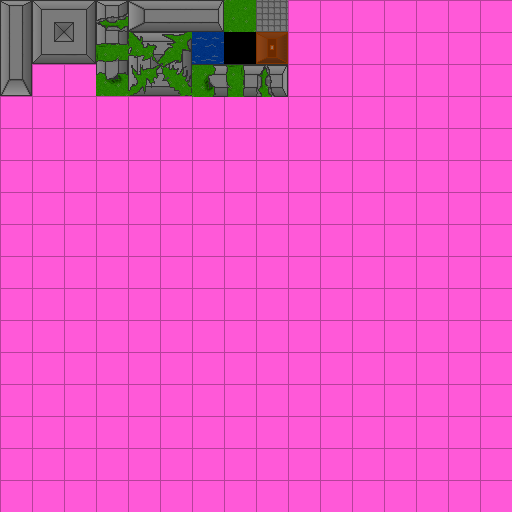
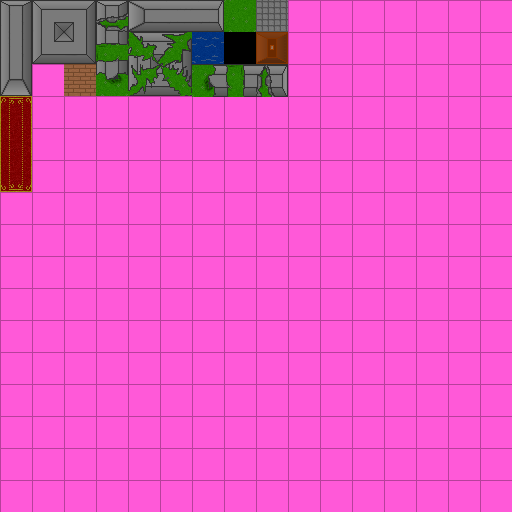
Added a few more tiles

Changed region(s): [[0.0, 0.1875, 0.0625, 0.375], [0.125, 0.125, 0.1875, 0.1875]]

diff --git a/game/screen/ScreenMapEditor.java b/game/screen/ScreenMapEditor.java
@@ -76,24 +76,19 @@ public class ScreenMapEditor extends Screen {
 
 		for (int x = 0; x < Game.WIDTH / 32; x++) {
 			for (int y = 0; y < (Game.HEIGHT - 64) / 32; y++) {
-				System.out.println("[MAPEDITOR] INIT set tile ("+x+","+y+") to 0");
 				tiles = Map.setTileAt(tiles, x, y, 0);
 			}
 		}
-		System.out.println("[MAPEDITOR] INIT registering tools.");
 		toolRegistry.add(new ToolPencil("Pencil", 1));
 		toolRegistry.add(new ToolReplace("Replacer", 0));
 		toolRegistry.add(new ToolBox("Rectangle", 6));
-		System.out.println("[MAPEDITOR] INIT registering entities.");
 		entityRegistry.add(new EntityBox());
 		entityRegistry.add(new EntityAmmo());
 		entityRegistry.add(new EntityExplosion());
 		entityRegistry.add(new EntitySign());
 		entityRegistry.add(new Player());
-		System.out.println("[MAPEDITOR] INIT registering triggers.");
 		triggerRegistry.add(new TriggerPlate());
 
-		System.out.println("[MAPEDITOR] INIT adding buttons.");
 		addButton("selectTile", new Rectangle(10, 520, 64, 64));
 		addButton("selectTool", new Rectangle(104, 520, 64, 64));
 		addButton("selectEntity", new Rectangle(194, 520, 64, 64));
@@ -106,12 +101,10 @@ public class ScreenMapEditor extends Screen {
 		addButton("save", new Rectangle(760, 515, 32, 32));
 		addButton("open", new Rectangle(760, 547, 32, 32));
 
-		System.out.println("[MAPEDITOR] INIT setting defaults.");
 		currentTool = toolRegistry.get(0);
 		currentTile = Tile.tiles[1];
 		currentEntity = entityRegistry.get(0);
 		currentTrigger = triggerRegistry.get(0);
-		System.out.println("[MAPEDITOR] INIT finished with no error.");
 
 	}
 
@@ -609,7 +602,7 @@ public class ScreenMapEditor extends Screen {
 		if (fileChooser.showOpenDialog(new JFrame("Open")) == JFileChooser.APPROVE_OPTION) {
 			File file = fileChooser.getSelectedFile();
 			Map loadedMap = FileSaver.loadMapFile(file.getAbsolutePath());
-			
+			this.tiles = loadedMap.tiles;
 			try {
 				this.entities = FileSaver.serialToEntity(loadedMap.entities,
 						game);

diff --git a/game/Game.java b/game/Game.java
@@ -47,7 +47,7 @@ public class Game extends Canvas implements KeyListener, MouseListener,
 
 	public SpriteSheet sheet, sheetExplosions, sheetTiles, sheetEntities,
 			sheetUI, sheetTriggers;
-	public BufferedImage loadingScreen, winScreen;
+	public BufferedImage loadingScreen, winScreen, logo;
 	public Font font;
 	public Graphics2D g;
 	public Options settings;
@@ -251,6 +251,16 @@ public class Game extends Canvas implements KeyListener, MouseListener,
 			e1.printStackTrace();
 			throw new RuntimeException("Unable to load win.png");
 		}
+		
+		try {
+			logo = ImageIO.read(Game.class
+					.getResource("/res/logo.png"));
+		} catch (IOException e1) {
+			log("Unable to load logo");
+			e1.printStackTrace();
+			throw new RuntimeException("Unable to load logo.png");
+		}
+		
 		
 		try {
 			font = new Font(ImageIO.read(Game.class

diff --git a/game/tile/Tile.java b/game/tile/Tile.java
@@ -26,7 +26,11 @@ public class Tile implements Serializable {
 			new TileRubble(TileRubble.RUBBLE_TOP_CORNER_LEFT),
 			new TileRubble(TileRubble.RUBBLE_TOP_CORNER_RIGHT),
 			new TileRubble(TileRubble.RUBBLE_BOTTOM_CORNER_LEFT),
-			new TileRubble(TileRubble.RUBBLE_BOTTOM_CORNER_RIGHT), };
+			new TileRubble(TileRubble.RUBBLE_BOTTOM_CORNER_RIGHT), 
+			new TileWood(),
+			new TileCarpet(0),
+			new TileCarpet(1),
+			new TileCarpet(2)};
 
 	boolean canPassThrough = true;
 	public int sprite = 0;
@@ -40,10 +44,8 @@ public class Tile implements Serializable {
 	{
 		for(int i = 0; i < Tile.tiles.length; i++)
 		{
-			Game.log("[TILE] tileID checking id "+i);
 			if(t == Tile.tiles[i])return i;
 		}
-		Game.log("[TILE] tileID found no possible match!");
 		return 0; //No possible tile?
 	}
 	

diff --git a/game/screen/ScreenMainMenu.java b/game/screen/ScreenMainMenu.java
@@ -28,7 +28,8 @@ public class ScreenMainMenu extends Screen {
 		this.g = g;
 		this.drawBackgroundScreen();
 		// this.drawAnimatedBackground();
-		game.getFontRenderer().drawCenteredString(Game.TITLE, 36, 3);
+		//game.getFontRenderer().drawCenteredString(Game.TITLE, 36, 3);
+		g.drawImage(game.logo, 240, 36, 328, 66, game);
 		ScreenTools.drawButton(290, 116, 232, 25, "Singleplayer", g, game,
 				new Color(255, 255, 255, 155), Color.white);
 		ScreenTools.drawButton(290, 148, 232, 25, "Wave mode", g, game,

diff --git a/game/tile/TileWood.java b/game/tile/TileWood.java
@@ -1,0 +1,16 @@
+package game.tile;
+
+public class TileWood extends Tile
+{
+
+	/**
+	 * 
+	 */
+	private static final long serialVersionUID = 630029209601838849L;
+	public String tileName = "Wooden flooring";
+	public TileWood() {
+		sprite = 34;
+	}
+
+
+}

diff --git a/game/tile/TileCarpet.java b/game/tile/TileCarpet.java
@@ -1,0 +1,14 @@
+package game.tile;
+
+public class TileCarpet extends Tile
+{
+
+
+	public String tileName = "Carpet";
+	public TileCarpet(int carpetType) {
+		sprite = 48 + (16 * carpetType);
+	}
+
+}
+
+
